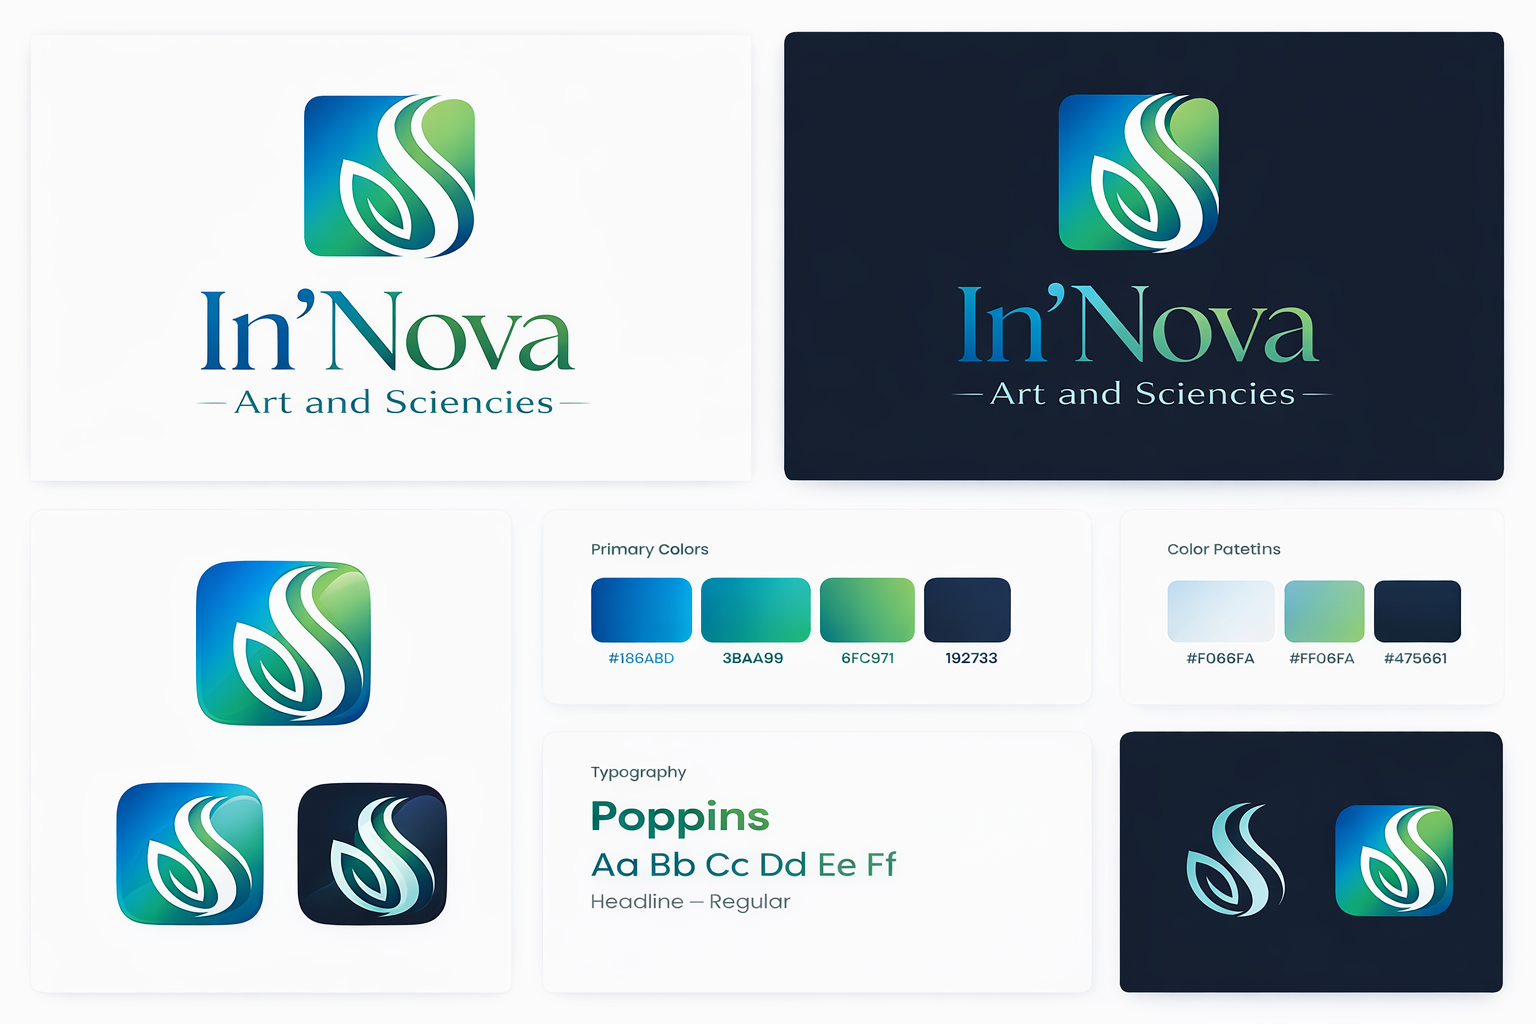
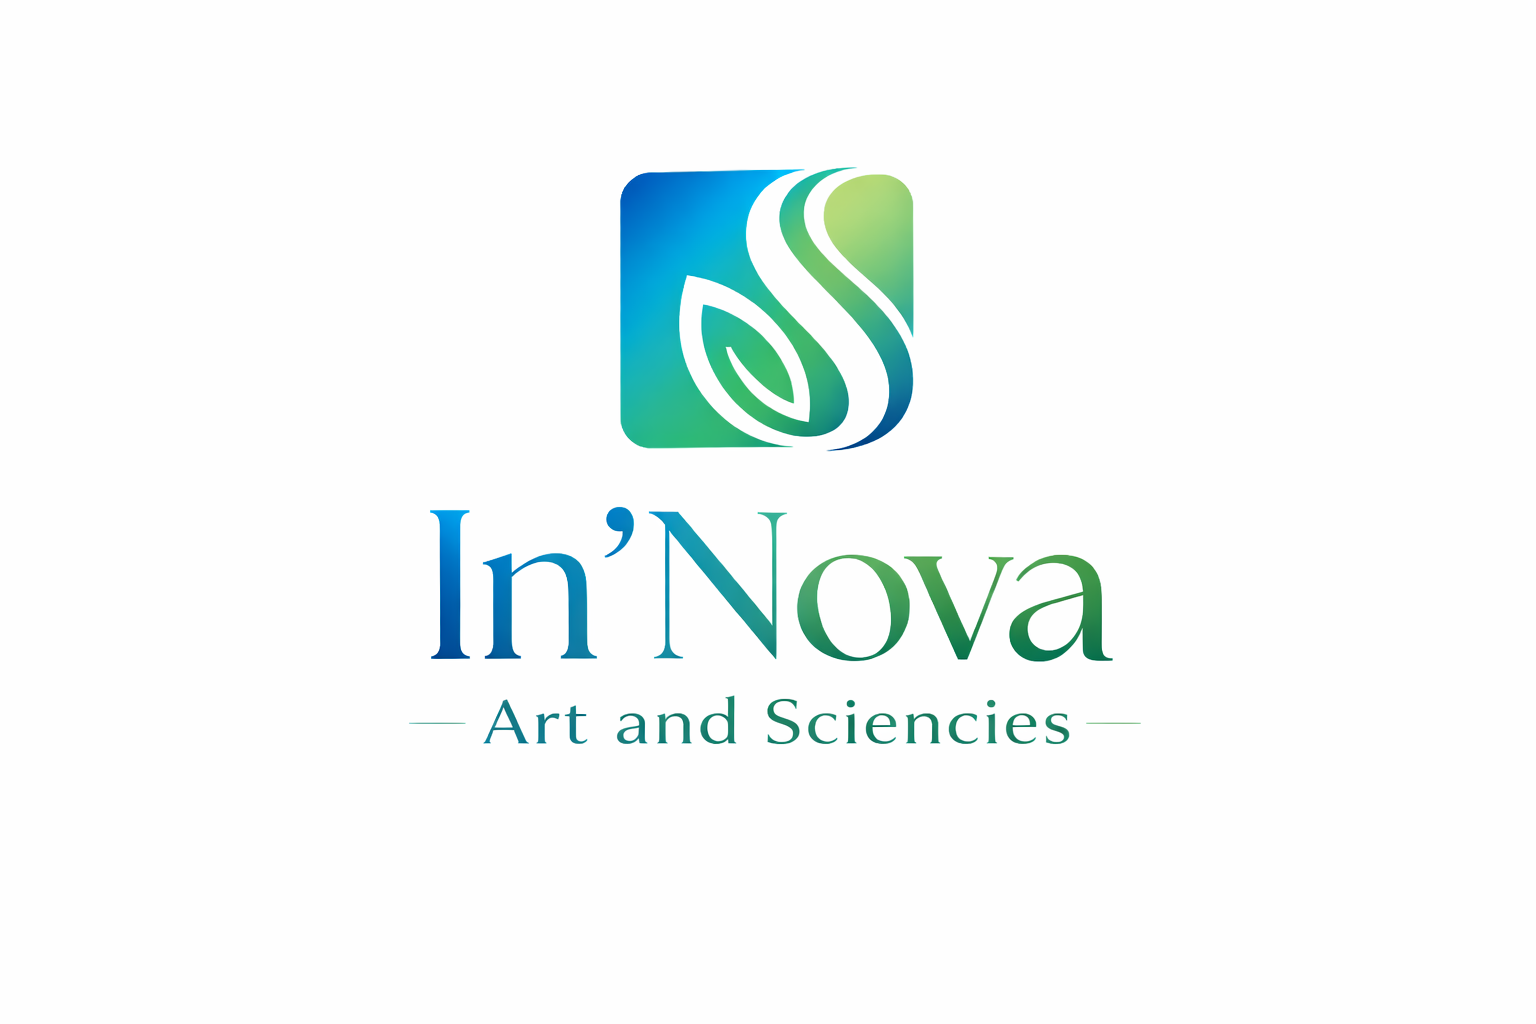
Checkpoint: Alterações realizadas: 1. Corrigido arquivo de autenticação removendo duplicatas de imports 2. Adicionado suporte a router no contexto de autenticação 3. Melhorado logout para limpar dados de navegação 4. Preparado para forçar abertura na tela de login ao iniciar app

diff --git a/lib/auth-context.tsx b/lib/auth-context.tsx
@@ -1,7 +1,8 @@
-import { createContext, useContext, useState, useEffect } from 'react';
+import { createContext, useContext, useState, useEffect, ReactNode } from 'react';
 import AsyncStorage from '@react-native-async-storage/async-storage';
 import * as SecureStore from 'expo-secure-store';
 import { Platform } from 'react-native';
+import { useRouter } from 'expo-router';
 
 export interface Employee {
   id: string;
@@ -152,6 +153,8 @@ export function AuthProvider({ children }: { children: React.ReactNode }) {
       await SecureStore.deleteItemAsync('auth_employee');
       setEmployee(null);
       setIsAuthenticated(false);
+      // Limpar dados de navegação para forçar retorno à tela de login
+      await AsyncStorage.removeItem('current_route');
     } catch (error) {
       console.error('Erro ao fazer logout:', error);
     } finally {